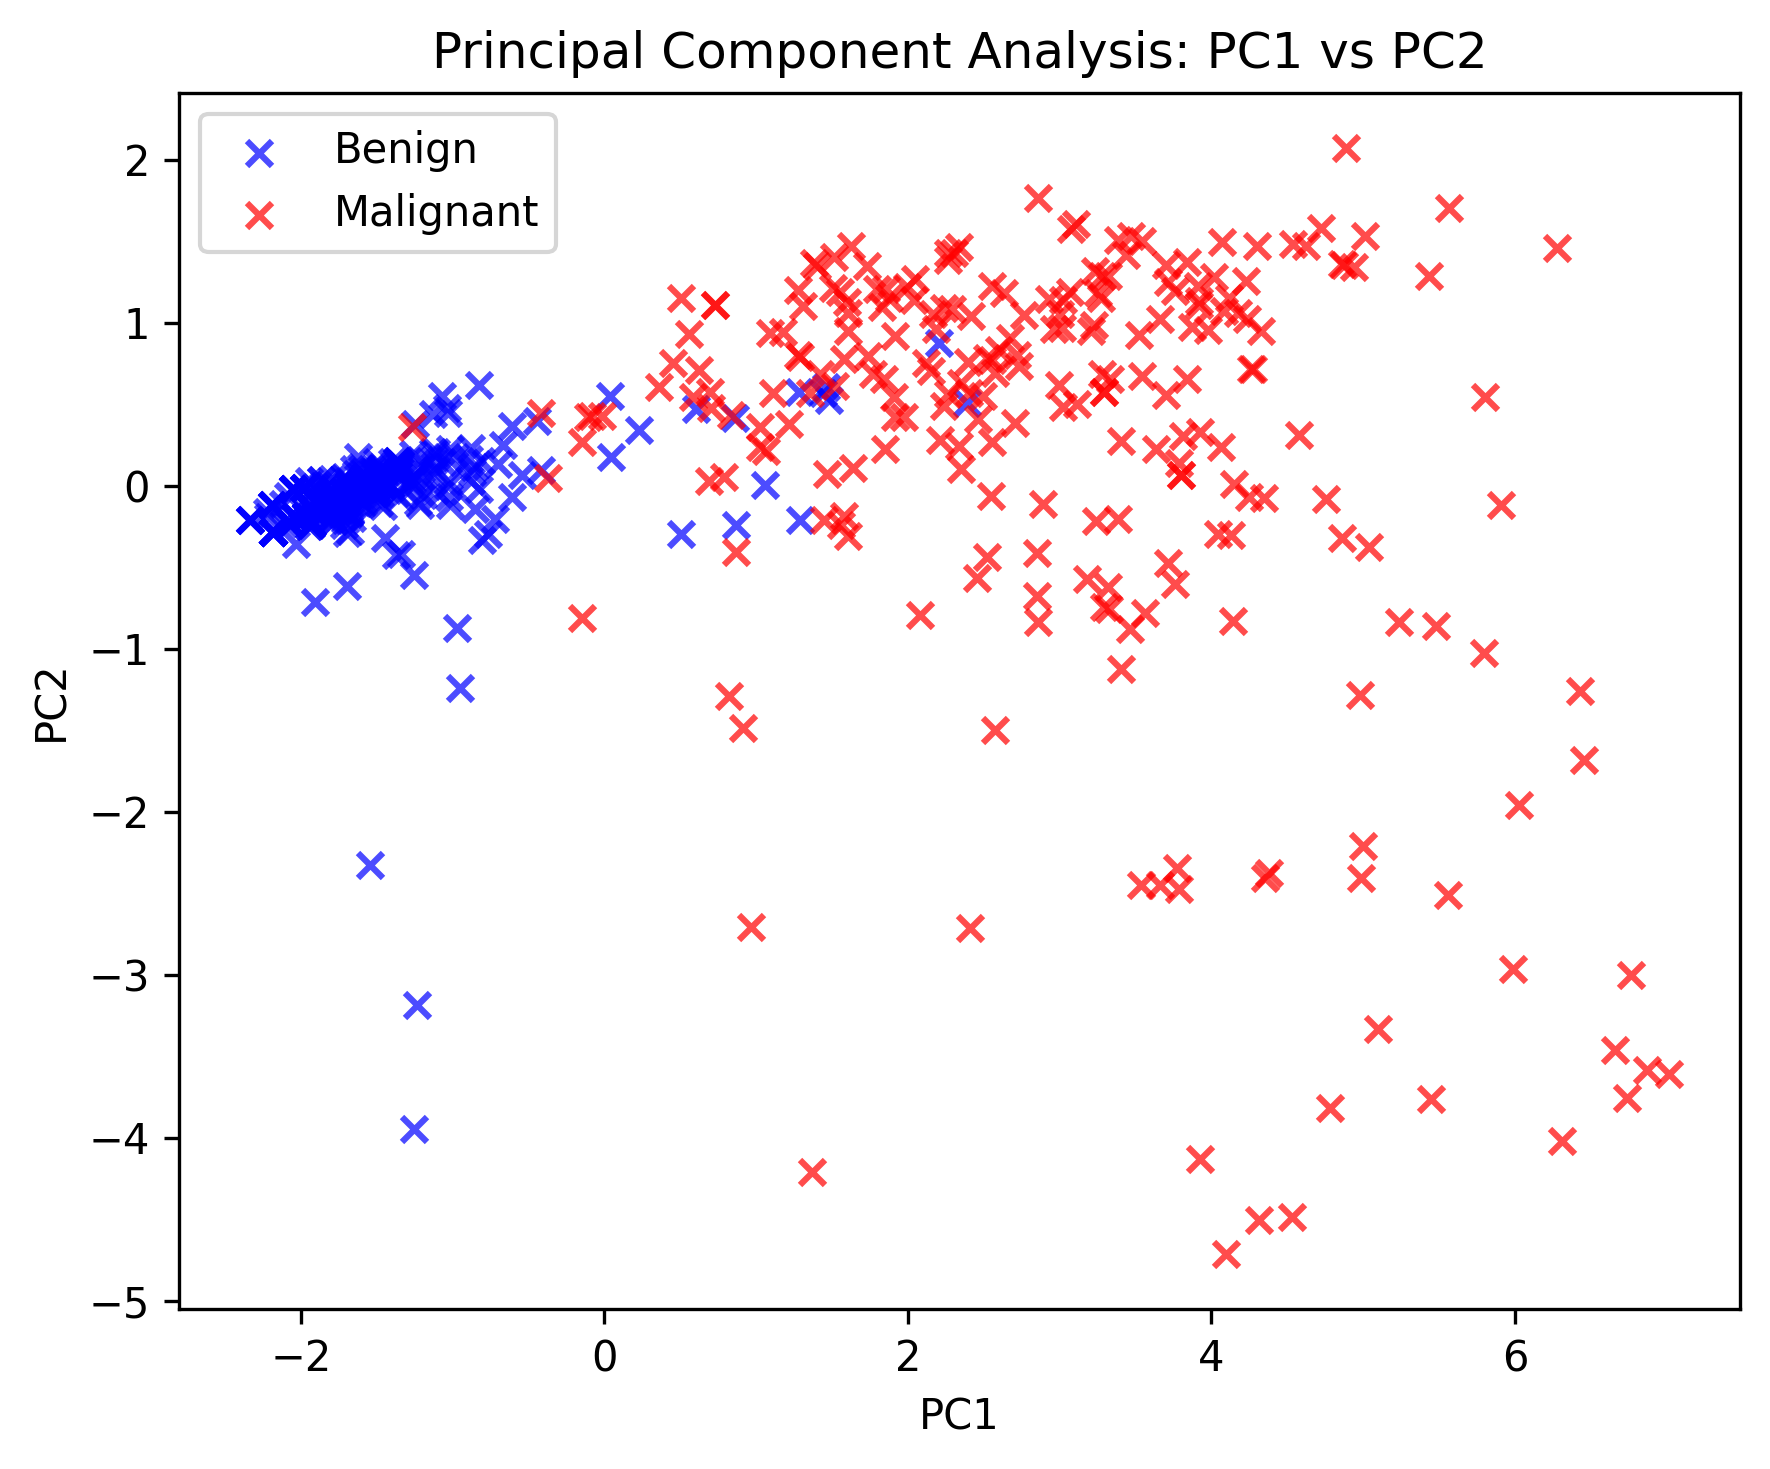
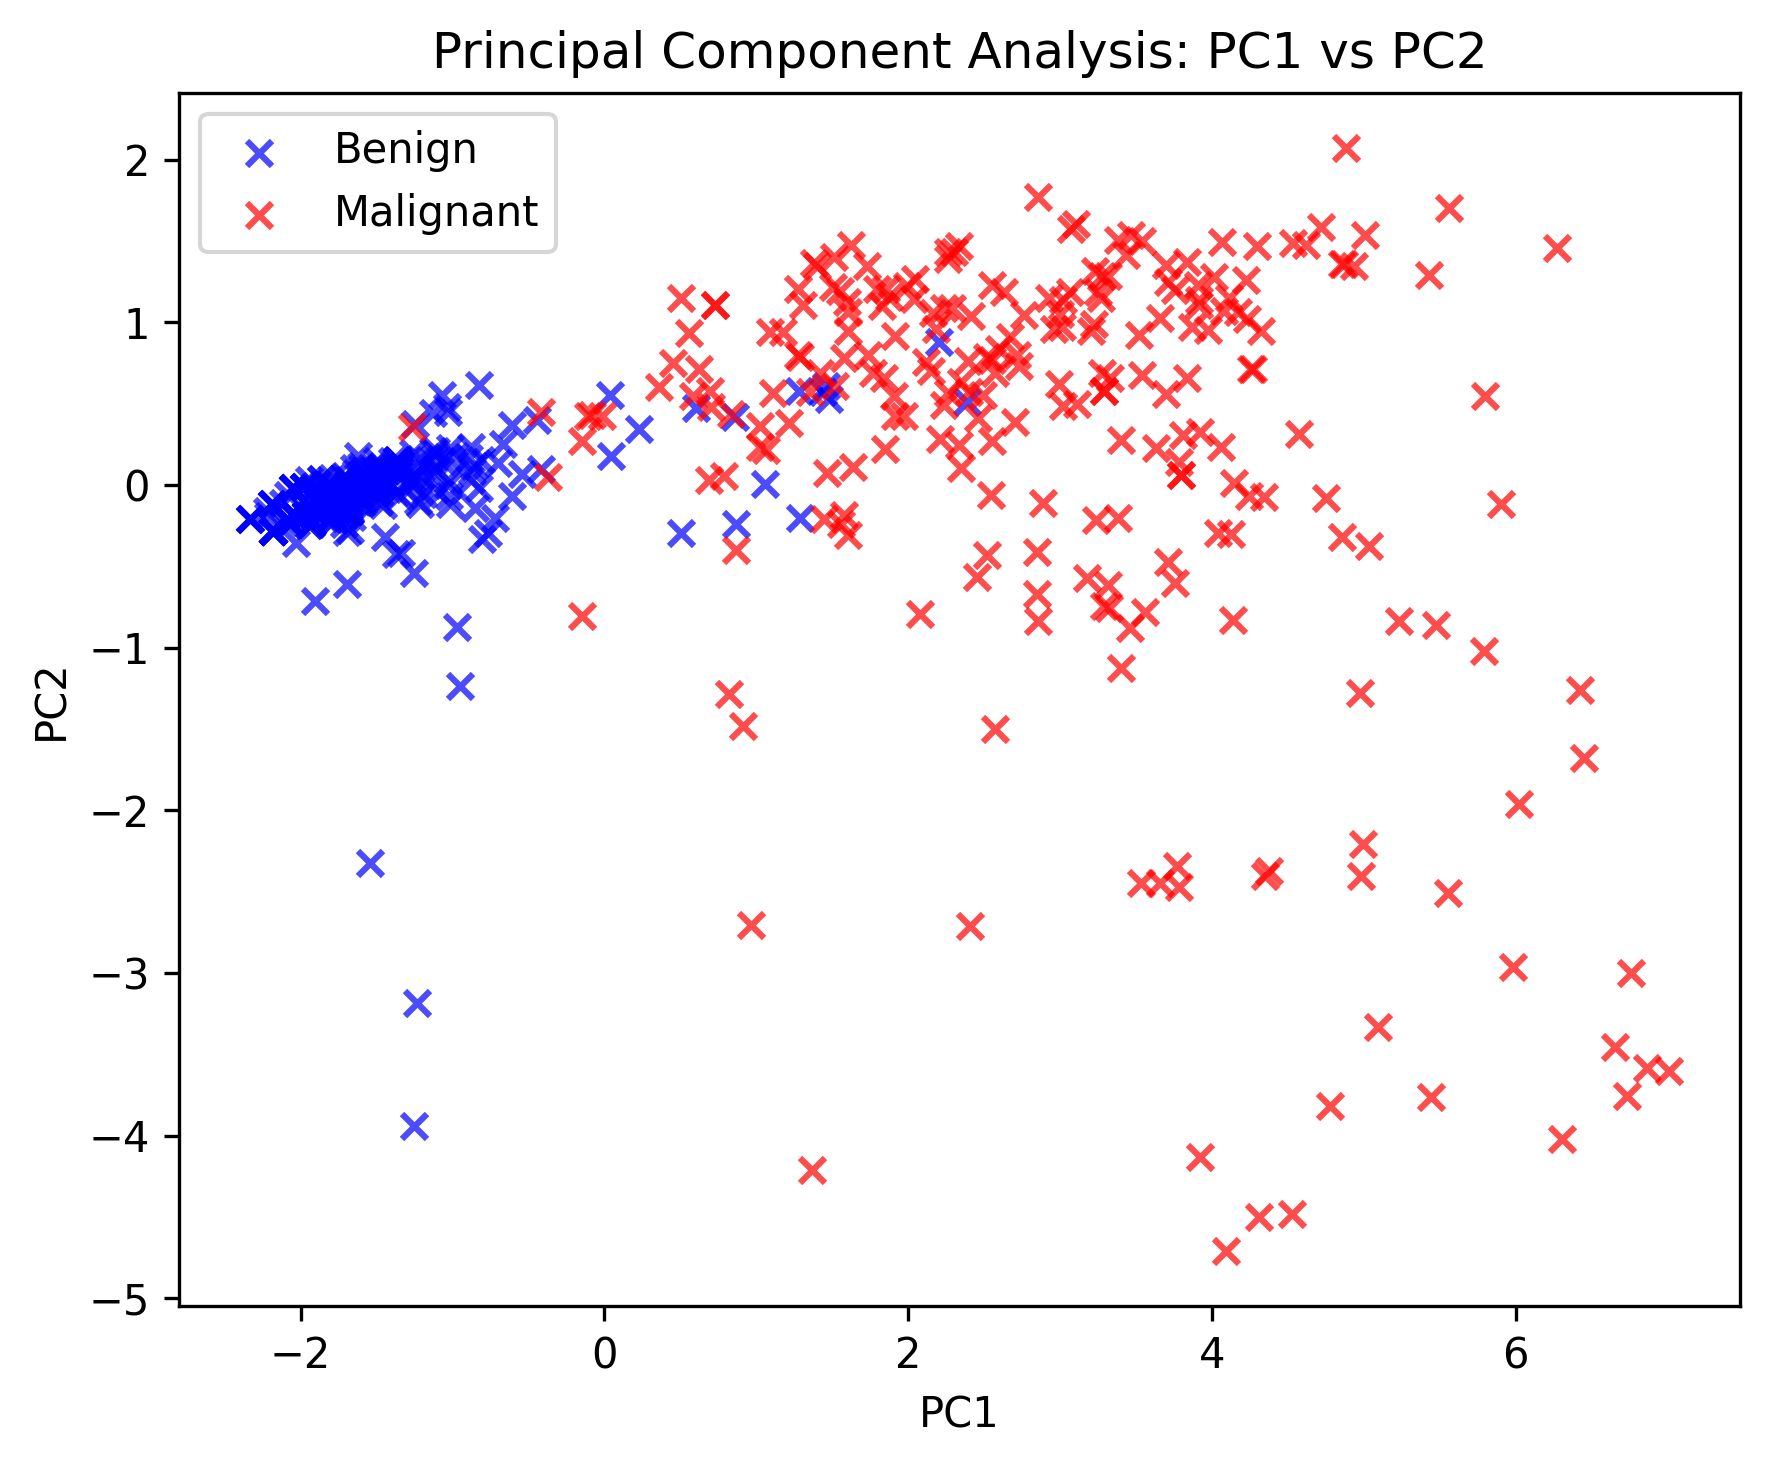
Update PCA analysis script to use sample standard deviation and refresh PCA-related figures

diff --git a/src/pca_analysis.py b/src/pca_analysis.py
@@ -12,7 +12,7 @@ from data_loading import load_breast_cancer_data  # adjust import path if needed
 def standardise_features(feature_matrix: np.ndarray) -> np.ndarray:
     # Standardisation: (X - mean) / std
     means = feature_matrix.mean(axis=0)
-    stds = feature_matrix.std(axis=0, ddof=0)  # population std; ddof=1 also fine
+    stds = feature_matrix.std(axis=0, ddof=1)  # population std; 
     # Avoid division by zero just in case
     stds[stds == 0] = 1.0
     standardised_features = (feature_matrix - means) / stds
